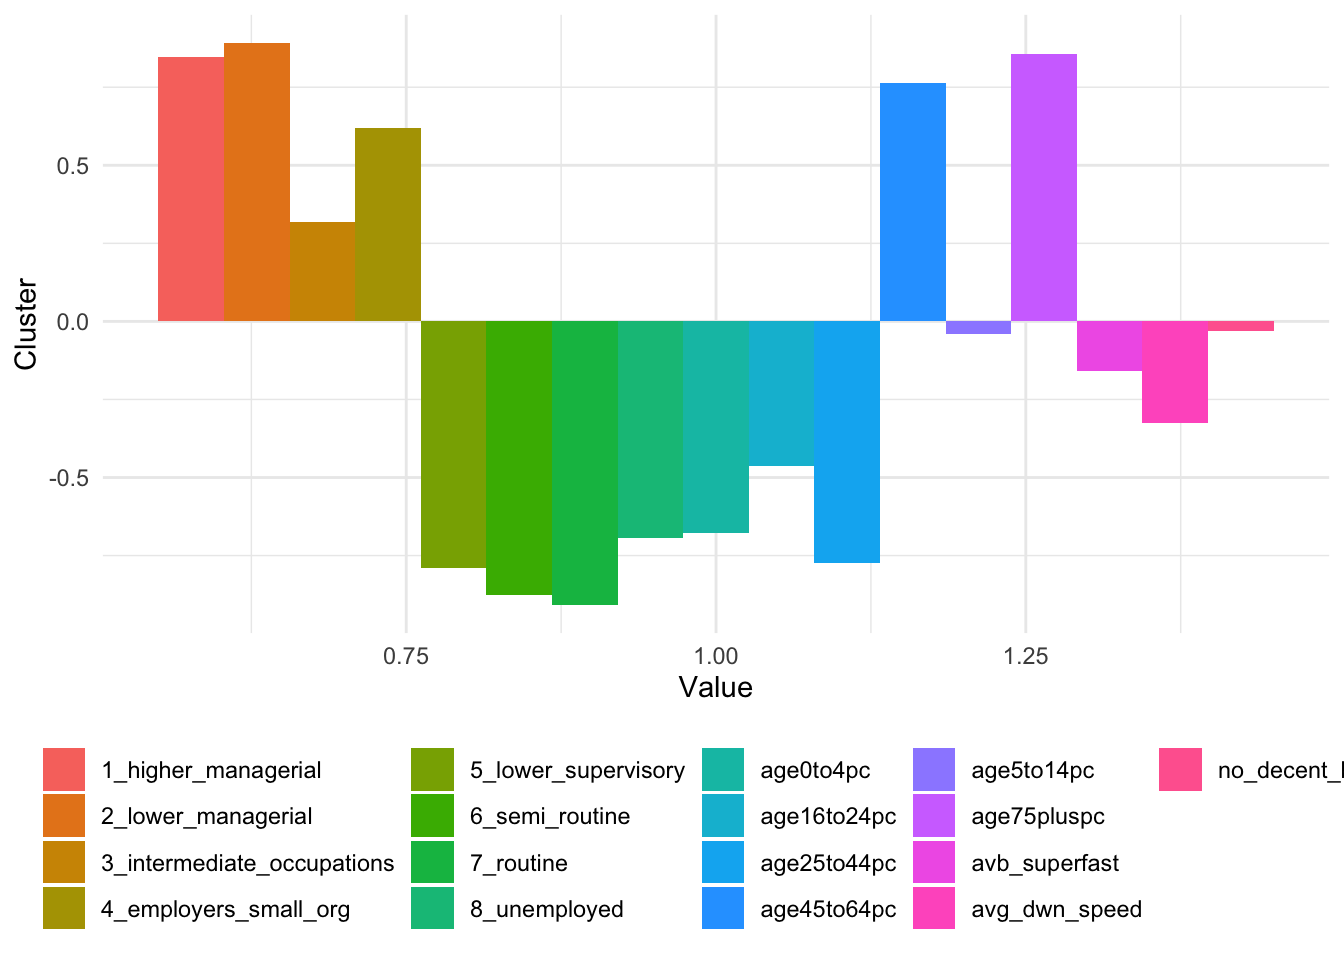
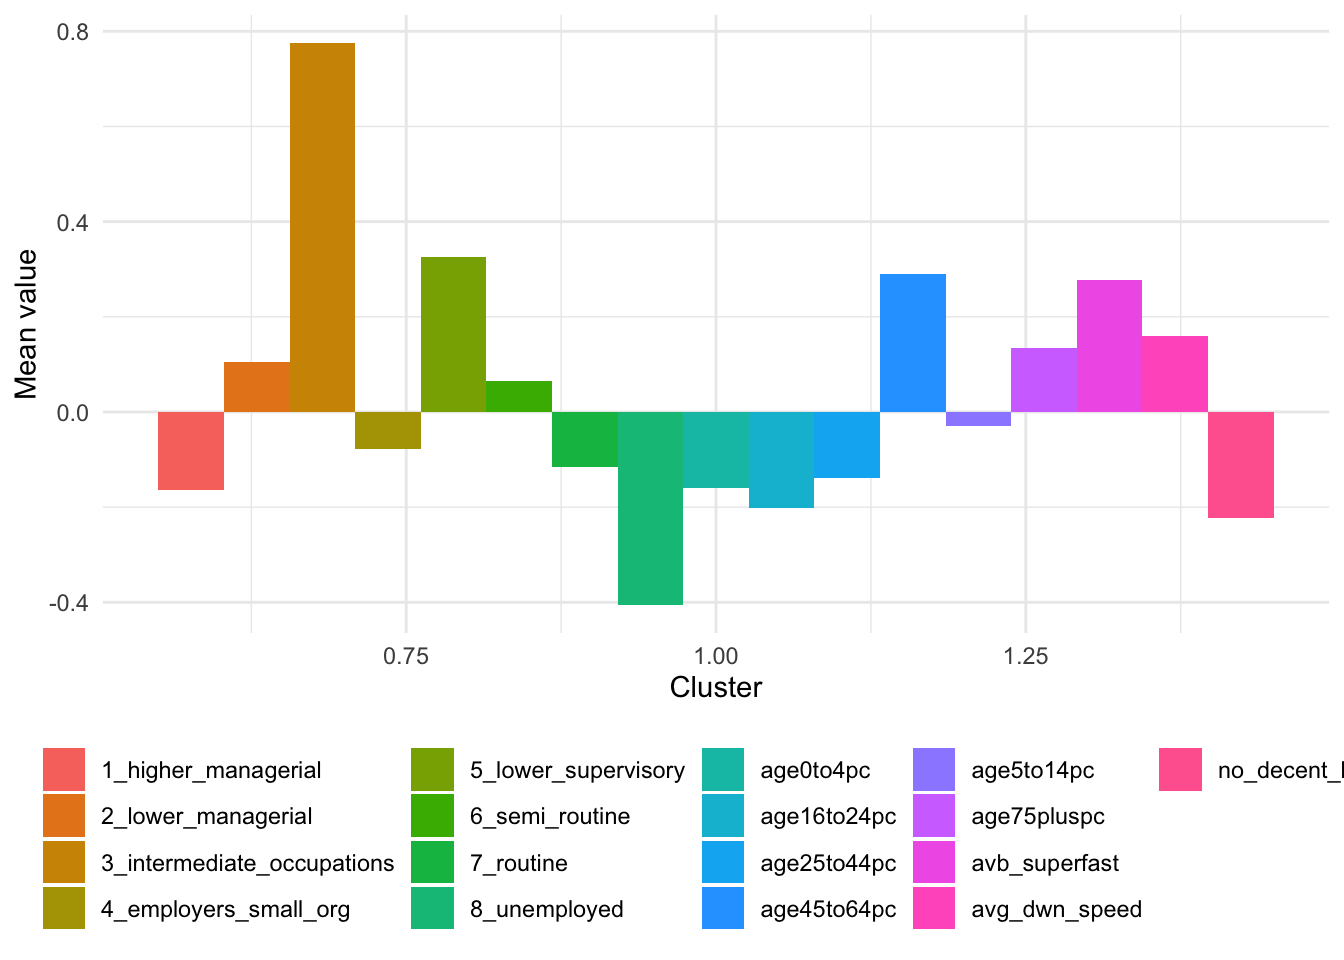
$1

diff --git a/docs/01-geodemographics.html b/docs/01-geodemographics.html
@@ -689,13 +689,13 @@ First 10 features:
 [1] 110934.1
 
 [[3]]
-[1] 96048.06
+[1] 96048.04
 
 [[4]]
 [1] 82701.63
 
 [[5]]
-[1] 73974.96
+[1] 73974.93
 
  [ reached getOption("max.print") -- omitted 10 entries ]</code></pre>
 </div>
@@ -786,21 +786,21 @@ First 10 features:
 <div class="sourceCode cell-code" id="cb25"><pre class="sourceCode r code-with-copy"><code class="sourceCode r"><span id="cb25-1"><a href="#cb25-1" aria-hidden="true" tabindex="-1"></a><span class="co"># inspect</span></span>
 <span id="cb25-2"><a href="#cb25-2" aria-hidden="true" tabindex="-1"></a>clusters</span></code><button title="Copy to Clipboard" class="code-copy-button"><i class="bi"></i></button></pre></div>
 <div class="cell-output cell-output-stdout">
-<pre><code>K-means clustering with 7 clusters of sizes 1814, 2039, 186, 2053, 541, 1107, 740
+<pre><code>K-means clustering with 7 clusters of sizes 2394, 956, 1717, 187, 1885, 759, 582
 
 Cluster means:
-     age0to4pc  age5to14pc age16to24pc age25to44pc age45to64pc age75pluspc
+   age0to4pc  age5to14pc age16to24pc age25to44pc age45to64pc  age75pluspc
   1_higher_managerial 2_lower_managerial 3_intermediate_occupations
   4_employers_small_org 5_lower_supervisory 6_semi_routine  7_routine
   8_unemployed avg_dwn_speed avb_superfast no_decent_bband
  [ reached getOption("max.print") -- omitted 7 rows ]
 
 Clustering vector:
-[1] 7 6 2 2 6
+[1] 6 2 1 1 2
  [ reached getOption("max.print") -- omitted 8475 entries ]
 
 Within cluster sum of squares by cluster:
-[1] 12871.008 11471.872  3401.821 11736.830  6265.986
+[1] 14200.865  8164.766 11927.670  3438.479 10415.474
  [ reached getOption("max.print") -- omitted 2 entries ]
  (between_SS / total_SS =  56.3 %)
 
@@ -826,7 +826,7 @@ Available components:
 <span id="cb27-8"><a href="#cb27-8" aria-hidden="true" tabindex="-1"></a>kfit_size</span></code><button title="Copy to Clipboard" class="code-copy-button"><i class="bi"></i></button></pre></div>
 </div>
 <div class="cell-output cell-output-stdout">
-<pre><code>[1] 1814 2039  186 2053  541
+<pre><code>[1] 2394  956 1717  187 1885
  [ reached getOption("max.print") -- omitted 2 entries ]</code></pre>
 </div>
 <div class="sourceCode cell-code" id="cb29"><pre class="sourceCode r code-with-copy"><code class="sourceCode r"><span id="cb29-1"><a href="#cb29-1" aria-hidden="true" tabindex="-1"></a><span class="co"># mean values for each variable in each cluster</span></span>
@@ -837,15 +837,15 @@ Available components:
 <span id="cb29-6"><a href="#cb29-6" aria-hidden="true" tabindex="-1"></a>kfit_mean</span></code><button title="Copy to Clipboard" class="code-copy-button"><i class="bi"></i></button></pre></div>
 <div class="cell-output cell-output-stdout">
 <pre><code># A tibble: 7 × 18
-  cluster age0to4pc age5to14pc age16to…¹ age25…² age45…³ age75…⁴ 1_hig…⁵ 2_low…⁶
-    &lt;int&gt;     &lt;dbl&gt;      &lt;dbl&gt;     &lt;dbl&gt;   &lt;dbl&gt;   &lt;dbl&gt;   &lt;dbl&gt;   &lt;dbl&gt;   &lt;dbl&gt;
-1       1  -0.679      -0.0412   -0.465  -0.773   0.765    0.856  0.845    0.893
-2       2   0.0162      0.118    -0.172   0.0189  0.202   -0.103 -0.0481   0.211
-3       3  -1.52       -2.68      5.42    0.113  -2.62    -1.28   0.870    0.223
-4       4  -0.00815    -0.0824   -0.0526 -0.158   0.0919   0.164 -0.837   -0.849
-5       5  -0.880      -0.148    -0.523  -0.998   1.22     0.554  0.0251   0.225
-6       6   1.56        1.14      0.381   0.626  -1.13    -0.954 -0.906   -1.26 
-7       7   0.326      -0.923     0.209   2.05   -1.23    -0.927  1.50     1.26 
+  cluster age0to4pc age5to14pc age16t…¹ age25…² age45…³ age75p…⁴ 1_hig…⁵ 2_low…⁶
+    &lt;int&gt;     &lt;dbl&gt;      &lt;dbl&gt;    &lt;dbl&gt;   &lt;dbl&gt;   &lt;dbl&gt;    &lt;dbl&gt;   &lt;dbl&gt;   &lt;dbl&gt;
+1       1    -0.159    -0.0304  -0.201  -0.138   0.290   0.134   -0.164    0.105
+2       2     1.68      1.22     0.401   0.718  -1.25   -1.03    -0.855   -1.20 
+3       3    -0.596     0.0467  -0.460  -0.713   0.740   0.753    0.970    0.985
+4       4    -1.52     -2.68     5.40    0.125  -2.62   -1.28     0.888    0.232
+5       5     0.179     0.0507   0.0150 -0.0638 -0.0313 -0.00611 -0.918   -1.01 
+6       6     0.351    -0.886    0.201   2.04   -1.22   -0.948    1.45     1.24 
+7       7    -0.891    -0.171   -0.520  -1.00    1.21    0.594    0.0206   0.224
 # … with 9 more variables: `3_intermediate_occupations` &lt;dbl&gt;,
 #   `4_employers_small_org` &lt;dbl&gt;, `5_lower_supervisory` &lt;dbl&gt;,
 #   `6_semi_routine` &lt;dbl&gt;, `7_routine` &lt;dbl&gt;, `8_unemployed` &lt;dbl&gt;,
@@ -895,8 +895,9 @@ Available components:
 </div>
 <div class="sourceCode cell-code" id="cb32"><pre class="sourceCode r code-with-copy"><code class="sourceCode r"><span id="cb32-1"><a href="#cb32-1" aria-hidden="true" tabindex="-1"></a><span class="co"># plot using ggplot2</span></span>
 <span id="cb32-2"><a href="#cb32-2" aria-hidden="true" tabindex="-1"></a><span class="fu">ggplot</span>(kfit_mean_long[kfit_mean_long<span class="sc">$</span>cluster <span class="sc">==</span> <span class="dv">1</span>, ], <span class="fu">aes</span>(<span class="at">x =</span> cluster, <span class="at">y =</span> value,</span>
-<span id="cb32-3"><a href="#cb32-3" aria-hidden="true" tabindex="-1"></a>    <span class="at">fill =</span> name)) <span class="sc">+</span> <span class="fu">geom_bar</span>(<span class="at">stat =</span> <span class="st">"identity"</span>, <span class="at">position =</span> <span class="st">"dodge"</span>) <span class="sc">+</span> <span class="fu">xlab</span>(<span class="st">"Value"</span>) <span class="sc">+</span></span>
-<span id="cb32-4"><a href="#cb32-4" aria-hidden="true" tabindex="-1"></a>    <span class="fu">ylab</span>(<span class="st">"Cluster"</span>) <span class="sc">+</span> <span class="fu">theme_minimal</span>() <span class="sc">+</span> <span class="fu">theme</span>(<span class="at">legend.title =</span> <span class="fu">element_blank</span>(), <span class="at">legend.position =</span> <span class="st">"bottom"</span>)</span></code><button title="Copy to Clipboard" class="code-copy-button"><i class="bi"></i></button></pre></div>
+<span id="cb32-3"><a href="#cb32-3" aria-hidden="true" tabindex="-1"></a>    <span class="at">fill =</span> name)) <span class="sc">+</span> <span class="fu">geom_bar</span>(<span class="at">stat =</span> <span class="st">"identity"</span>, <span class="at">position =</span> <span class="st">"dodge"</span>) <span class="sc">+</span> <span class="fu">xlab</span>(<span class="st">"Cluster"</span>) <span class="sc">+</span></span>
+<span id="cb32-4"><a href="#cb32-4" aria-hidden="true" tabindex="-1"></a>    <span class="fu">ylab</span>(<span class="st">"Mean value"</span>) <span class="sc">+</span> <span class="fu">theme_minimal</span>() <span class="sc">+</span> <span class="fu">theme</span>(<span class="at">legend.title =</span> <span class="fu">element_blank</span>(),</span>
+<span id="cb32-5"><a href="#cb32-5" aria-hidden="true" tabindex="-1"></a>    <span class="at">legend.position =</span> <span class="st">"bottom"</span>)</span></code><button title="Copy to Clipboard" class="code-copy-button"><i class="bi"></i></button></pre></div>
 </div>
 <div class="cell-output-display">
 <div id="fig-geo-plot-those-clusters-with-a-graph-just-one" class="quarto-figure quarto-figure-center anchored">
@@ -944,6 +945,16 @@ Geodetic CRS:  WGS 84</code></pre>
 <p><img src="01-geodemographics_files/figure-html/fig-geo-map-the-iuc-1.png" class="img-fluid figure-img" width="672"></p>
 <figcaption class="figure-caption">Figure&nbsp;1.9: Spatial pattern of our geodemographic classification</figcaption>
 </figure>
+</div>
+</div>
+</div>
+<div class="callout callout-style-simple callout-warning">
+<div class="callout-body d-flex">
+<div class="callout-icon-container">
+<i class="callout-icon"></i>
+</div>
+<div class="callout-body-container">
+<p>Your map might look different as the cluster numbers are not consistently assigned and therefore colours can be map onto the cluster numbers differently.</p>
 </div>
 </div>
 </div>
